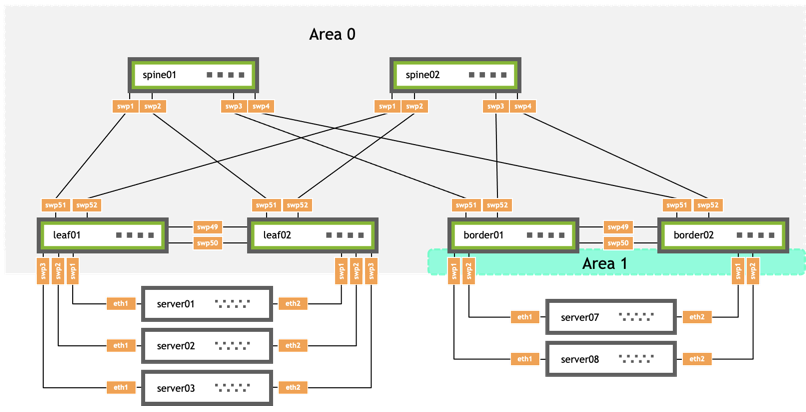
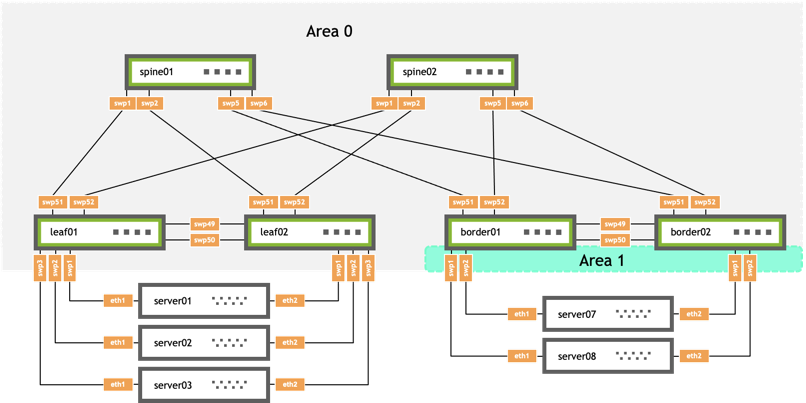
updates to conf example

diff --git a/content/cumulus-linux-42/Layer-3/OSPF/OSPF-Configuration-Example.md b/content/cumulus-linux-42/Layer-3/OSPF/OSPF-Configuration-Example.md
@@ -63,11 +63,12 @@ iface vlan30
 auto swp51
 iface swp51
     alias leaf to spine
-    10.10.10.1/32
+    address 10.10.10.1/32
 
 auto swp52
 iface swp52
     alias leaf to spine
+     address 10.10.10.1/32
 
 auto swp49
 iface swp49
@@ -184,11 +185,12 @@ iface vlan30
 auto swp51
 iface swp51
     alias leaf to spine
-    10.10.10.2/32
+    address 10.10.10.2/32
 
 auto swp52
 iface swp52
     alias leaf to spine
+    address 10.10.10.2/32
 
 auto swp49
 iface swp49
@@ -281,19 +283,22 @@ iface eth0 inet dhcp
 auto swp1
 iface swp1
     alias leaf to spine
-    10.10.10.101/32
+    address 10.10.10.101/32
 
 auto swp2
 iface swp2
     alias leaf to spine
+    address 10.10.10.101/32
 
-auto swp3
-iface swp3
+auto swp5
+iface swp5
     alias leaf to spine
+    address 10.10.10.101/32
 
-auto swp4
-iface swp4
+auto swp6
+iface swp6
     alias leaf to spine
+    address 10.10.10.101/32
 ```
 
 {{< /tab >}}
@@ -319,19 +324,22 @@ iface eth0 inet dhcp
 auto swp1
 iface swp1
     alias leaf to spine
-    10.10.10.102/32
+    address 10.10.10.102/32
 
 auto swp2
 iface swp2
     alias leaf to spine
+    address 10.10.10.102/32
 
-auto swp3
-iface swp3
+auto swp5
+iface swp5
     alias leaf to spine
+    address 10.10.10.102/32
 
-auto swp4
-iface swp4
+auto swp6
+iface swp6
     alias leaf to spine
+    address 10.10.10.102/32
 ```
 
 {{< /tab >}}
@@ -363,11 +371,12 @@ iface bridge
 auto swp51
 iface swp51
     alias leaf to spine
-    10.10.10.63/32
+    address 10.10.10.63/32
 
 auto swp52
 iface swp52
     alias leaf to spine
+    address 10.10.10.63/32
 
 auto swp49
 iface swp49
@@ -464,11 +473,12 @@ iface vlan20
 auto swp51
 iface swp51
     alias leaf to spine
-    10.10.10.64/32
+    address 10.10.10.64/32
 
 auto swp52
 iface swp52
     alias leaf to spine
+    address 10.10.10.64/32
 
 auto swp49
 iface swp49
@@ -540,6 +550,15 @@ log syslog informational
 interface lo
  ip ospf area 0
 !
+interface vlan10
+  ip ospf area 0
+!
+interface vlan20
+  ip ospf area 0
+!
+interface vlan30
+  ip ospf area 0
+!
 interface swp51
  ip ospf area 0
  ip ospf network point-to-point
@@ -554,8 +573,9 @@ interface swp52
 !
 router ospf
  ospf router-id 10.10.10.1
- passive-interface swp1
- passive-interface swp2
+ passive-interface vlan10
+ passive-interface vlan20
+ passive-interface vlan30
  timers throttle spf 80 100 6000
 !
 ```
@@ -572,6 +592,15 @@ log syslog informational
 interface lo
  ip ospf area 0
 !
+interface vlan10
+  ip ospf area 0
+!
+interface vlan20
+  ip ospf area 0
+!
+interface vlan30
+  ip ospf area 0
+!
 interface swp51
  ip ospf area 0
  ip ospf network point-to-point
@@ -586,8 +615,9 @@ interface swp52
 !
 router ospf
  ospf router-id 10.10.10.2
- passive-interface swp1
- passive-interface swp2
+ passive-interface vlan10
+ passive-interface vlan20
+ passive-interface vlan30
  timers throttle spf 80 100 6000
 !
 ```
@@ -616,21 +646,17 @@ interface swp2
  ip ospf hello-interval 5
  ip ospf dead-interval 60
 !
-interface swp3
+interface swp5
  ip ospf area 0
  ip ospf network point-to-point
  ip ospf hello-interval 5
  ip ospf dead-interval 60
 !
-interface swp4
+interface swp6
  ip ospf area 0
  ip ospf network point-to-point
  ip ospf hello-interval 5
  ip ospf dead-interval 60
-!
-router ospf
- ospf router-id 10.10.10.101
- timers throttle spf 80 100 6000
 !
 router ospf
  ospf router-id 10.10.10.101
@@ -663,13 +689,13 @@ interface swp2
  ip ospf hello-interval 5
  ip ospf dead-interval 60
 !
-interface swp3
+interface swp5
  ip ospf area 0
  ip ospf network point-to-point
  ip ospf hello-interval 5
  ip ospf dead-interval 60
 !
-interface swp4
+interface swp6
  ip ospf area 0
  ip ospf network point-to-point
  ip ospf hello-interval 5
